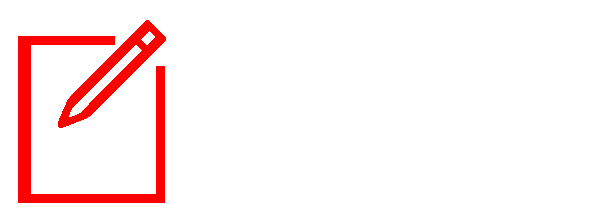
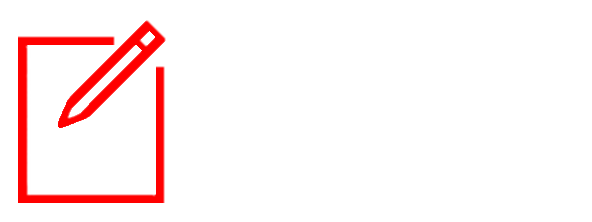
обновление калькулятора

diff --git a/index.html b/index.html
@@ -16,7 +16,7 @@
 
         body {
             font-family: 'Inter', sans-serif;
-            background: linear-gradient(150deg, #cfdde6 0%, #bccad6 100%);
+            background: linear-gradient(145deg, #cfdde6 0%, #bccad6 100%);
             color: #1e2a3a;
             line-height: 1.5;
             scroll-behavior: smooth;
@@ -448,10 +448,6 @@
             font-weight: 600;
             color: #1e2a3a;
             margin-bottom: 12px;
-            display: flex;
-            align-items: center;
-            justify-content: center;
-            gap: 8px;
         }
 
         .rates-grid {
@@ -578,6 +574,36 @@
             .rates-grid { grid-template-columns: repeat(2, 1fr); }
         }
 
+        /* Стили для полей ввода в калькуляторе */
+        .param-input {
+            background: white;
+            border: 1px solid #e2e8f0;
+            border-radius: 20px;
+            padding: 12px 16px;
+            font-size: 0.95rem;
+            color: #1e2a3a;
+            width: 100%;
+            transition: all 0.2s;
+            font-family: 'Inter', sans-serif;
+            font-weight: 500;
+        }
+
+        .param-input:focus {
+            outline: none;
+            border-color: #D4AF37;
+            transform: translateY(-1px);
+        }
+
+        .param-input:hover {
+            border-color: #D4AF37;
+        }
+
+        .param-unit {
+            font-size: 0.75rem;
+            color: #5c6f87;
+            margin-left: 8px;
+        }
+
         .calculator-full-width {
             width: 100%;
             background: rgba(255,255,255,0.95);
@@ -665,29 +691,10 @@
             font-weight: 500;
         }
 
-        .param-value {
-            background: white;
-            border: 1px solid #e2e8f0;
-            border-radius: 20px;
-            padding: 12px 16px;
+        .weight-input-wrapper {
             display: flex;
-            justify-content: space-between;
             align-items: center;
-            cursor: pointer;
-            font-size: 0.95rem;
-            color: #1e2a3a;
-            transition: all 0.2s;
-        }
-
-        .param-value i {
-            font-size: 0.8rem;
-            color: #D4AF37;
-            transition: transform 0.2s;
-        }
-
-        .param-value:hover {
-            border-color: #D4AF37;
-            transform: translateY(-1px);
+            gap: 8px;
         }
 
         .purities-grid-sunlight {
@@ -828,6 +835,7 @@
             .params-row { flex-direction: column; gap: 12px; }
             .purities-grid-sunlight { gap: 8px; grid-template-columns: repeat(3, 1fr); }
             .result-value { font-size: 1.4rem; }
+            .param-input { padding: 10px 14px; }
         }
 
         .container {
@@ -1418,7 +1426,6 @@
                 justify-content: space-between;
                 margin-bottom: 0;
             }
-            /* Скрываем правую часть на мобильных - остаётся только логотип и бургер */
             .navbar-contacts {
                 display: none !important;
             }
@@ -1575,8 +1582,14 @@
                     <div class="calc-left">
                         <div class="calc-switch"><div class="calc-switch-btn active" data-mode="loan">Займ</div><div class="calc-switch-btn" data-mode="buyout">Выкуп</div></div>
                         <div class="params-row">
-                            <div class="param-item"><label>Вес изделия</label><div class="param-value" id="weightSelector"><span id="weightDisplay">1 г</span><i class="fas fa-chevron-down"></i></div></div>
-                            <div class="param-item" id="daysParamItem"><label>Срок займа</label><div class="param-value" id="daysSelector"><span id="daysDisplay">30 дней</span><i class="fas fa-chevron-down"></i></div></div>
+                            <div class="param-item">
+                                <label>Вес изделия (г)</label>
+                                <input type="number" id="weightInput" value="1" step="0.1" min="0.5" max="50" class="param-input">
+                            </div>
+                            <div class="param-item" id="daysParamItem">
+                                <label>Срок займа (дней)</label>
+                                <input type="number" id="daysInput" value="30" step="1" min="7" max="365" class="param-input">
+                            </div>
                         </div>
                         <div class="purities-grid-sunlight">
                             <div class="purity-card-sunlight" data-purity="375" data-price="3250" data-buyout="3650"><i class="fas fa-coins"></i><span class="purity-value">375</span><span class="purity-price">3 250 ₽</span></div>
@@ -1786,7 +1799,7 @@
         } catch (error) { document.getElementById('updateDate').innerHTML = 'Не удалось загрузить'; }
     }
 
-    // Калькулятор
+    // Калькулятор с полями ввода
     let currentMode = 'loan';
     let currentPurity = 585;
     let currentPrice = 5070;
@@ -1795,9 +1808,24 @@
     let currentDays = 30;
     const DAILY_RATE = 0.00293;
 
+    // Элементы полей ввода
+    const weightInput = document.getElementById('weightInput');
+    const daysInput = document.getElementById('daysInput');
+
     function updateCalculator() {
+        // Получаем значения из полей ввода
+        currentWeight = parseFloat(weightInput.value);
+        currentDays = parseInt(daysInput.value);
+        
+        // Проверка на корректность
+        if (isNaN(currentWeight) || currentWeight < 0.5) currentWeight = 0.5;
+        if (isNaN(currentDays) || currentDays < 7) currentDays = 7;
+        if (currentWeight > 50) currentWeight = 50;
+        if (currentDays > 365) currentDays = 365;
+        
         let totalAmount, resultLabelText;
         const tariffRow = document.getElementById('tariffRow'), dailyRateRow = document.getElementById('dailyRateRow'), interestRow = document.getElementById('interestRow'), daysParamItem = document.getElementById('daysParamItem'), resultSide = document.getElementById('resultSide');
+        
         if (currentMode === 'loan') {
             totalAmount = currentPrice * currentWeight;
             resultLabelText = '💰 Выдадим на руки (займ)';
@@ -1821,12 +1849,13 @@
             if (resultSide) resultSide.classList.add('buyout-mode');
         }
         const amountSpan = document.getElementById('loanAmount');
-        const newValue = totalAmount;
-        amountSpan.innerHTML = newValue.toLocaleString('ru-RU') + ' ₽';
+        amountSpan.innerHTML = totalAmount.toLocaleString('ru-RU') + ' ₽';
         document.getElementById('resultLabel').innerHTML = resultLabelText;
-        document.getElementById('weightDisplay').innerHTML = currentWeight + ' г';
-        document.getElementById('daysDisplay').innerHTML = currentDays + ' дней';
     }
+
+    // Слушатели событий для полей ввода
+    weightInput.addEventListener('input', updateCalculator);
+    daysInput.addEventListener('input', updateCalculator);
 
     document.querySelectorAll('.calc-switch-btn').forEach(btn => {
         btn.addEventListener('click', () => {
@@ -1861,22 +1890,6 @@
         });
     });
 
-    document.getElementById('weightSelector').addEventListener('click', () => {
-        let newWeight = prompt('Введите вес в граммах (от 0.5 до 50)', currentWeight);
-        if (newWeight && !isNaN(newWeight) && newWeight > 0 && newWeight <= 50) {
-            currentWeight = parseFloat(newWeight);
-            updateCalculator();
-        }
-    });
-
-    document.getElementById('daysSelector').addEventListener('click', () => {
-        let newDays = prompt('Введите срок займа в днях (от 7 до 365)', currentDays);
-        if (newDays && !isNaN(newDays) && newDays >= 7 && newDays <= 365) {
-            currentDays = parseInt(newDays);
-            if (currentMode === 'loan') updateCalculator();
-        }
-    });
-
     document.getElementById('askQuestionBtn').addEventListener('click', () => {
         window.open('https://t.me/Lolozik201191', '_blank');
     });
@@ -1890,18 +1903,17 @@
     let currentIndex = 0;
     let cardWidth = 0;
     let visibleCards = 4;
-    let totalCards = 5; // 5 тарифов
+    let totalCards = 5;
     let isTransitioning = false;
     let cloneCards = [];
 
-    // Функция для обновления размеров
     function updateCardWidth() {
         const container = document.querySelector('.tariffs-slider-container');
         if (!container) return;
         const containerWidth = container.clientWidth;
         const firstCard = document.querySelector('.tariff-card');
         if (firstCard) {
-            cardWidth = firstCard.offsetWidth + 24; // + gap
+            cardWidth = firstCard.offsetWidth + 24;
         }
         if (cardWidth > 0) {
             visibleCards = Math.floor(containerWidth / cardWidth);
@@ -1909,26 +1921,16 @@
         }
     }
 
-    // Создаём клоны для бесконечной прокрутки
     function setupInfiniteCarousel() {
         const originalCards = document.querySelectorAll('.tariff-card');
         totalCards = originalCards.length;
-        
-        // Очищаем трек
         track.innerHTML = '';
-        
-        // Добавляем клоны: [последний, ...оригиналы..., первый]
         const lastClone = originalCards[totalCards - 1].cloneNode(true);
         const firstClone = originalCards[0].cloneNode(true);
-        
         track.appendChild(lastClone);
         originalCards.forEach(card => track.appendChild(card.cloneNode(true)));
         track.appendChild(firstClone);
-        
-        // Сохраняем все карточки в карусели
         cloneCards = document.querySelectorAll('.tariff-card');
-        
-        // Устанавливаем начальную позицию (на первый оригинальный элемент)
         currentIndex = 1;
         updateSliderPosition(false);
         updateDotsInfinite();
@@ -1939,22 +1941,18 @@
         const offset = -currentIndex * cardWidth;
         track.style.transition = animate ? 'transform 0.5s cubic-bezier(0.25, 0.46, 0.45, 0.94)' : 'none';
         track.style.transform = `translateX(${offset}px)`;
-        
         if (!animate) {
-            // Force reflow
             track.offsetHeight;
         }
     }
 
     function handleTransitionEnd() {
         isTransitioning = false;
-        // Если дошли до клона последнего (индекс totalCards)
         if (currentIndex >= totalCards + 1) {
             currentIndex = 1;
             updateSliderPosition(false);
             updateDotsInfinite();
         }
-        // Если дошли до клона первого (индекс 0)
         if (currentIndex <= 0) {
             currentIndex = totalCards;
             updateSliderPosition(false);
@@ -1996,7 +1994,6 @@
         updateSliderPosition(true);
     }
 
-    // Инициализация карусели
     function initInfiniteCarousel() {
         updateCardWidth();
         setupInfiniteCarousel();